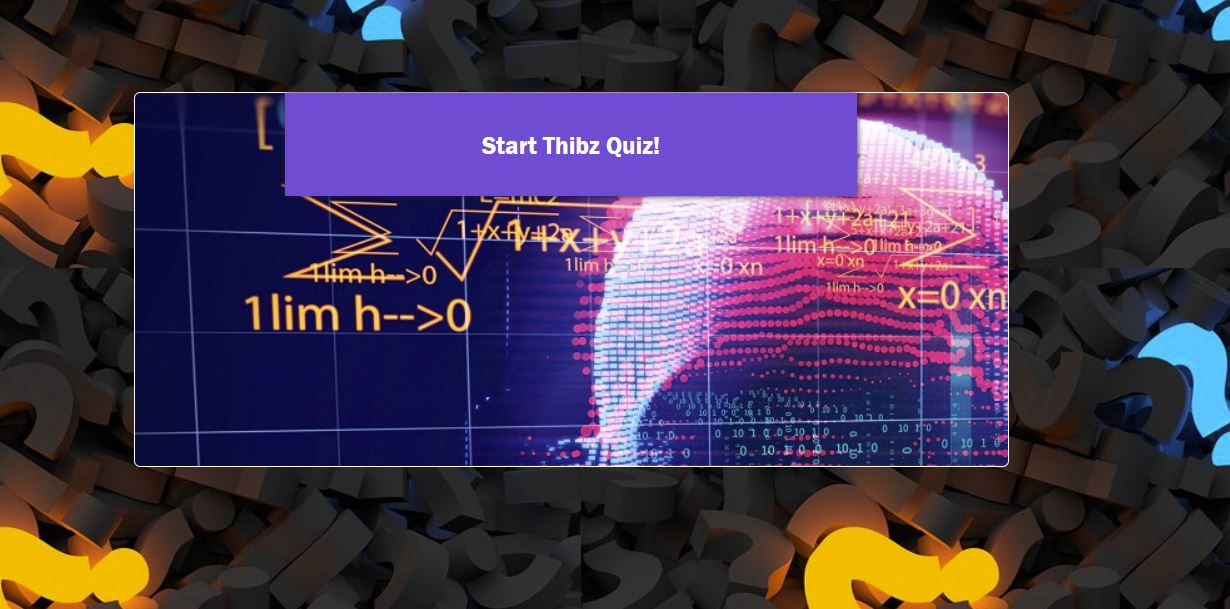
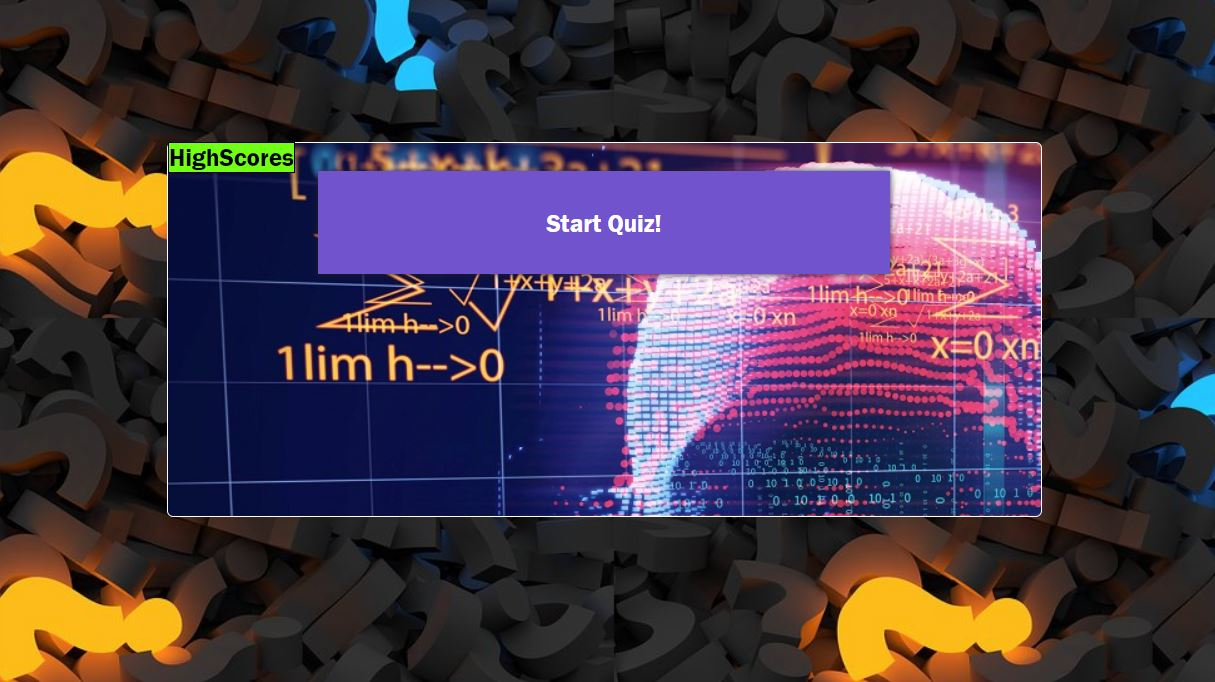
read me revised

diff --git a/readme.md b/readme.md
@@ -34,7 +34,7 @@ https://thibsvw.github.io/Quiz-Game/
 
 1. Start the Quiz
 
-![start](https://user-images.githubusercontent.com/64518932/83929751-12905200-a7c7-11ea-827c-1f96626c5389.JPG)
+![start](https://user-images.githubusercontent.com/64518932/83931899-ce567f00-a7d1-11ea-819d-edd53a2e37b9.JPG)
 
 2. Questions with 10seconds timer for each question
 
@@ -44,6 +44,11 @@ https://thibsvw.github.io/Quiz-Game/
 3. Final results displayed 
 
 ![score](https://user-images.githubusercontent.com/64518932/83929795-3ce20f80-a7c7-11ea-923b-3a9a73cdc79b.JPG)
+
+4. HighScores
+
+![highscores](https://user-images.githubusercontent.com/64518932/83931951-25f4ea80-a7d2-11ea-88eb-51059984dc65.JPG)
+
 
 
 
